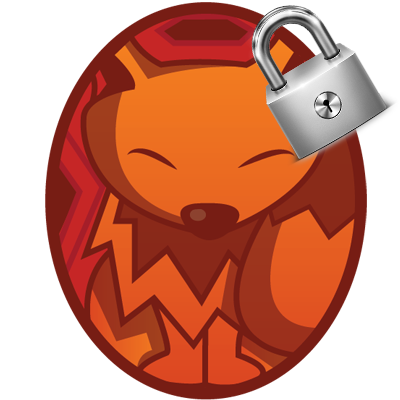
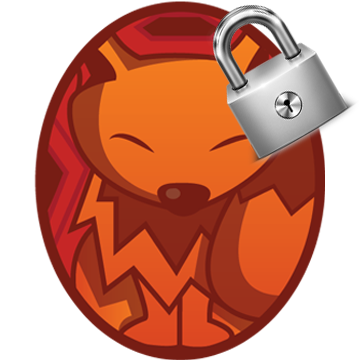
STATE! New Shape Images and better in-app function

diff --git a/Selector/ShapeViewController.m b/Selector/ShapeViewController.m
@@ -69,7 +69,8 @@
     [super viewDidLoad];
 
     
-    
+    Reachability * reachNet = [Reachability reachabilityForInternetConnection];
+    NetworkStatus statusNet = [reachNet currentReachabilityStatus];
 
     NSNotificationCenter *productNC = [NSNotificationCenter defaultCenter];
     [productNC addObserver:self selector:@selector(provideProduct:) name:@"ProductReady" object:[PGStoreObserver sharedObserver]];
@@ -97,7 +98,7 @@
     
     
     //IN-APP store products
-    if([[FloweeShapeStore sharedStore]hasProducts] || [[NSUserDefaults standardUserDefaults]boolForKey:@"someBeenPurchased"])
+    if([[FloweeShapeStore sharedStore]hasProducts] || [[NSUserDefaults standardUserDefaults]boolForKey:@"someBeenPurchased"]|| statusNet == NotReachable)
     {
             //before purchase
             if(![[NSUserDefaults standardUserDefaults]boolForKey:@"Flowee_Shape1"])
@@ -210,7 +211,7 @@
         imageView6 =[[UIImageView alloc]initWithImage:[UIImage imageNamed:@"foxxEgg.png"]];
         imageView6.frame = CGRectMake(0, 0, 100, 100);
         [self replaceImageAtIndex:selectedShapeRow withUnlockedImageView:imageView6];
-        [[NSUserDefaults standardUserDefaults]setBool:YES forKey:[NSString stringWithFormat:@"%d",selectedShapeRow]];
+        [[NSUserDefaults standardUserDefaults]setBool:YES forKey:[NSString stringWithFormat:@"%@",[imageView6 image]]];
         NSLog(@"Flowee_Shape1, %s", __FUNCTION__);
 
     }
@@ -220,7 +221,7 @@
         imageView7 =[[UIImageView alloc]initWithImage:[UIImage imageNamed:@"kaijuEgg.png"]];
         imageView7.frame = CGRectMake(0, 0, 100, 100);
         [self replaceImageAtIndex:selectedShapeRow withUnlockedImageView:imageView7];
-        [[NSUserDefaults standardUserDefaults]setBool:YES forKey:[NSString stringWithFormat:@"%d",selectedShapeRow]];
+        [[NSUserDefaults standardUserDefaults]setBool:YES forKey:[NSString stringWithFormat:@"%@",[imageView7 image]]];
         NSLog(@"Flowee_Shape2, %s", __FUNCTION__);
 
     }
@@ -272,9 +273,13 @@
     Reachability * reachNet = [Reachability reachabilityForInternetConnection];
     NetworkStatus statusNet = [reachNet currentReachabilityStatus];
     
+    selectedImageView = [imageArray objectAtIndex:selectedShapeRow];
+
+    
     if(statusNet != NotReachable)
     {
-        if(selectedShapeRow > 4 && ![[NSUserDefaults standardUserDefaults]boolForKey:[NSString stringWithFormat:@"%d", selectedShapeRow]] &&[SKPaymentQueue canMakePayments])
+        
+        if(selectedShapeRow > 4 && ![[NSUserDefaults standardUserDefaults]boolForKey:[NSString stringWithFormat:@"%@", [selectedImageView image]]] &&[SKPaymentQueue canMakePayments])
         {
             NSString * locInAppPurchase = NSLocalizedString(@"INAPP_PURCHASE", nil);
             NSString * locInAppPurchaseMessage = NSLocalizedString(@"INAPP_PURCHASE_MESSAGE", nil);
@@ -286,6 +291,8 @@
     }
 }
 
+
+#pragma mark - UIAlertView Delegate
 -(void)alertView:(UIAlertView *)alertView clickedButtonAtIndex:(NSInteger)buttonIndex
 {
     if(buttonIndex == 1)
@@ -302,19 +309,19 @@
         }
  
     }
+
 }
 
 
 #pragma mark - Send the delegate the selected shape
 - (IBAction)shapeSelected:(id)sender {
     
-    
+
     selectedImageView = [imageArray objectAtIndex:selectedShapeRow];
     
     selectedShape = [selectedImageView image];
     
-    
-    [self.shapeDelegate shapeViewController:self didFinishSelecting:selectedShape];
+    [self.shapeDelegate shapeViewController:self didFinishSelecting:selectedShape inRow:selectedShapeRow];
     
     NSString * selectedShapeRowNumber = [NSString stringWithFormat:@"%d", selectedShapeRow];
         

diff --git a/Selector/SelectorViewController.m b/Selector/SelectorViewController.m
@@ -179,15 +179,35 @@
 }
 
 #pragma mark - SHAPEVIEWCONTROLLER DELEGATE
--(void)shapeViewController:(ShapeViewController *)controller didFinishSelecting:(UIImage *)shape
+-(void)shapeViewController:(ShapeViewController *)controller didFinishSelecting:(UIImage *)shape inRow:(NSInteger)row
 {    NSLog(@"%s", __FUNCTION__);
+    
+    
+    
+    if(![[NSUserDefaults standardUserDefaults]boolForKey:[NSString stringWithFormat:@"%@", shape]] && row > 4)
+    {
+        NSString * locInAppPurchaseWarning = NSLocalizedString(@"INAPP_PURCHASE_WARNING", nil);
+        NSString * locInAppPurchaseWarningMessage = NSLocalizedString(@"INAPP_PURCHASE_WARNING_MESSAGE", nil);
+        UIAlertView * alert = [[UIAlertView alloc]initWithTitle:locInAppPurchaseWarning message:locInAppPurchaseWarningMessage delegate:self cancelButtonTitle:@"OK"otherButtonTitles:nil, nil];
+        [alert show];
+        
+        myShape = nil;
+        
+    }
+    
+    else{
     myShape = shape;
+    }
     coloredShape = nil;
     [resultView setImage:myShape];
     if([[FloweeColorStore sharedStore]colorForKey:@"myColor"])
     {
         [resultView setImage:[self colorShape:[[FloweeColorStore sharedStore]colorForKey:@"myColor"]]];
     }
+    
+    
+    
+    
     [self dismissModalViewControllerAnimated:YES];
 
 }

diff --git a/Selector/ShapeViewController.h b/Selector/ShapeViewController.h
@@ -11,7 +11,7 @@
 
 @protocol ShapeViewControllerDelegate <NSObject>
 
--(void)shapeViewController:(ShapeViewController *)controller didFinishSelecting:(UIImage*)shape;
+-(void)shapeViewController:(ShapeViewController *)controller didFinishSelecting:(UIImage*)shape inRow:(NSInteger)row;
 
 @end
 
